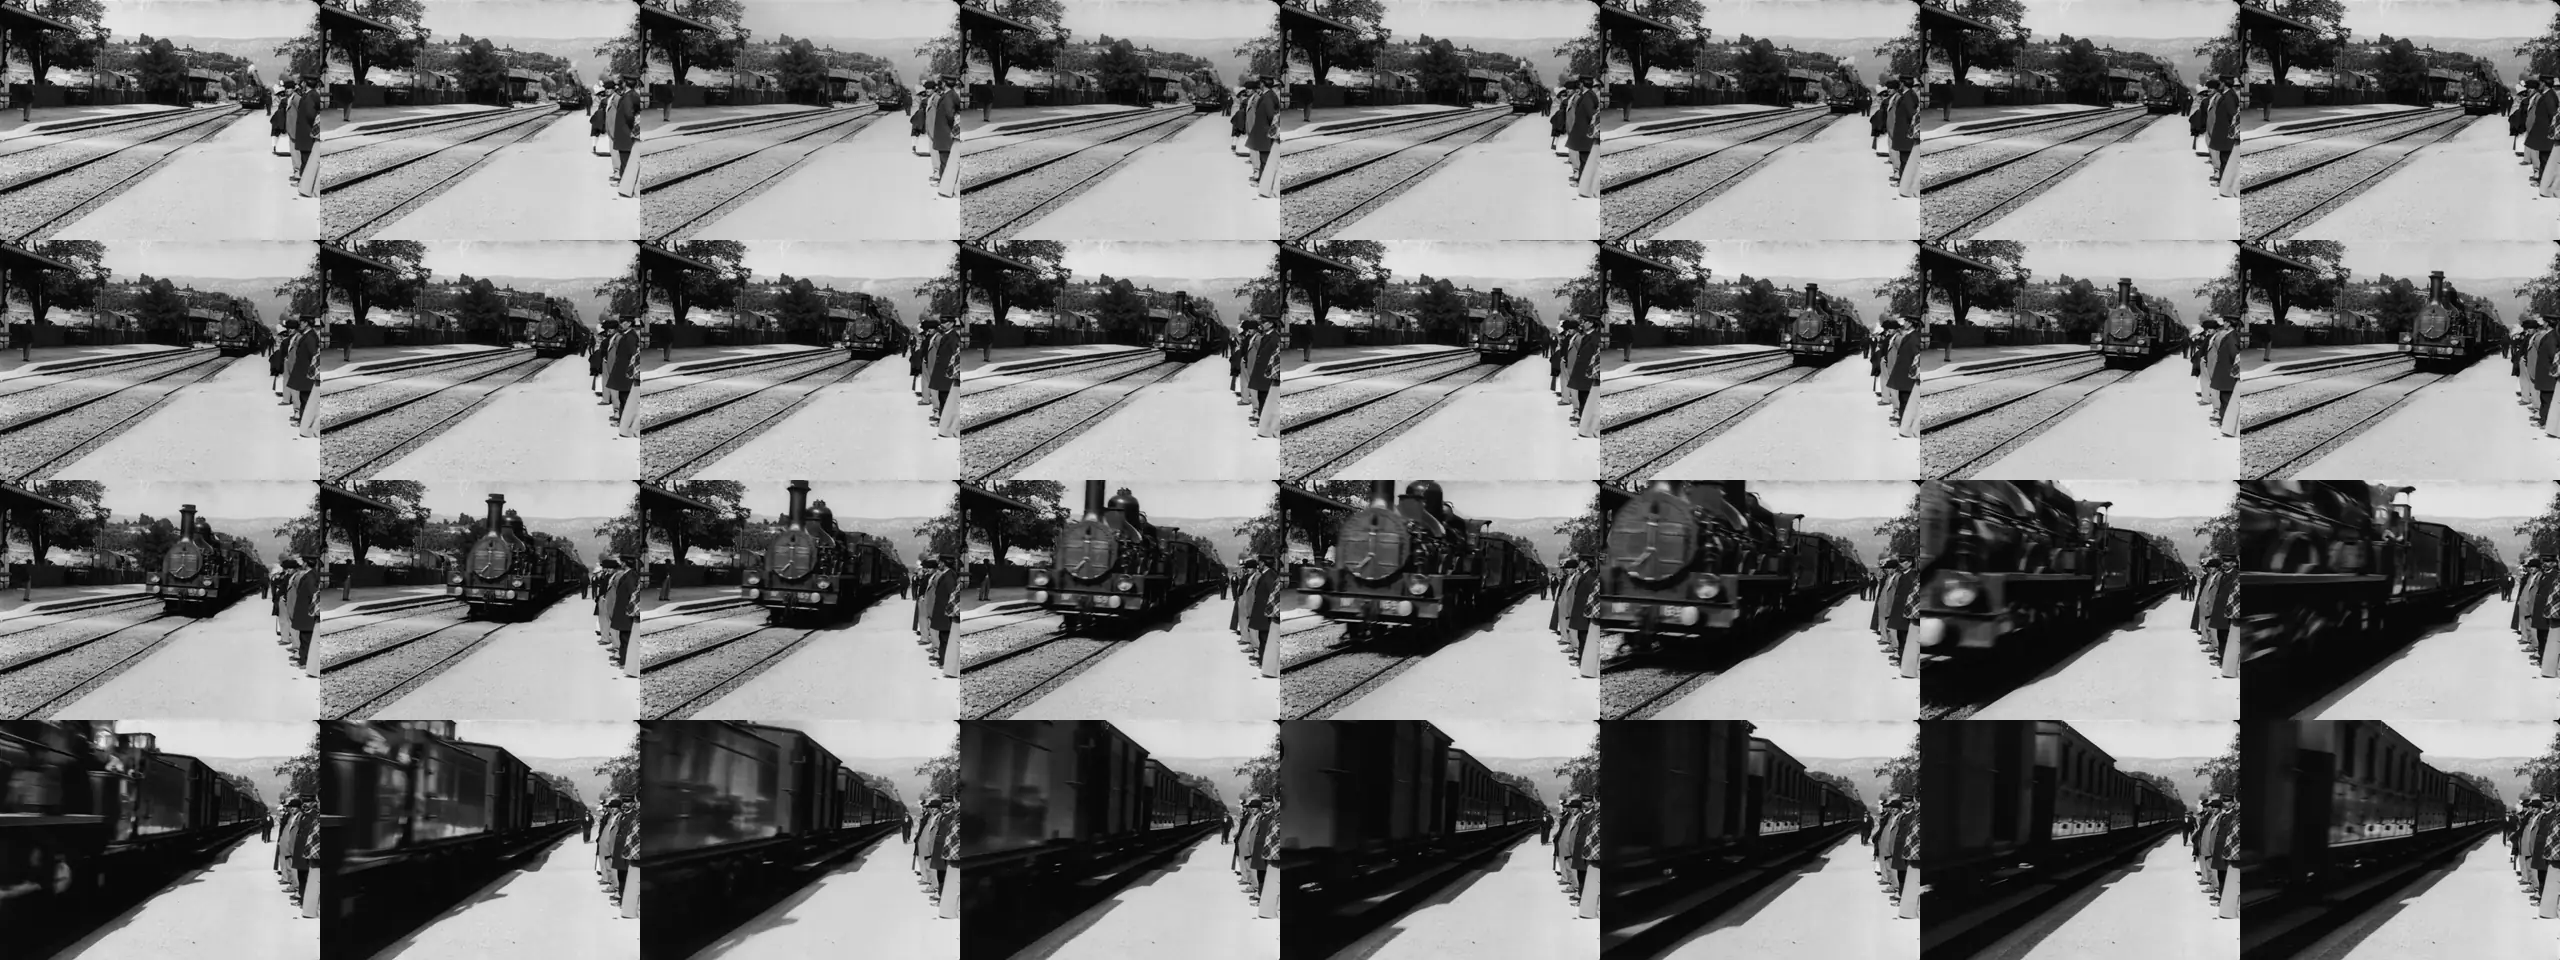
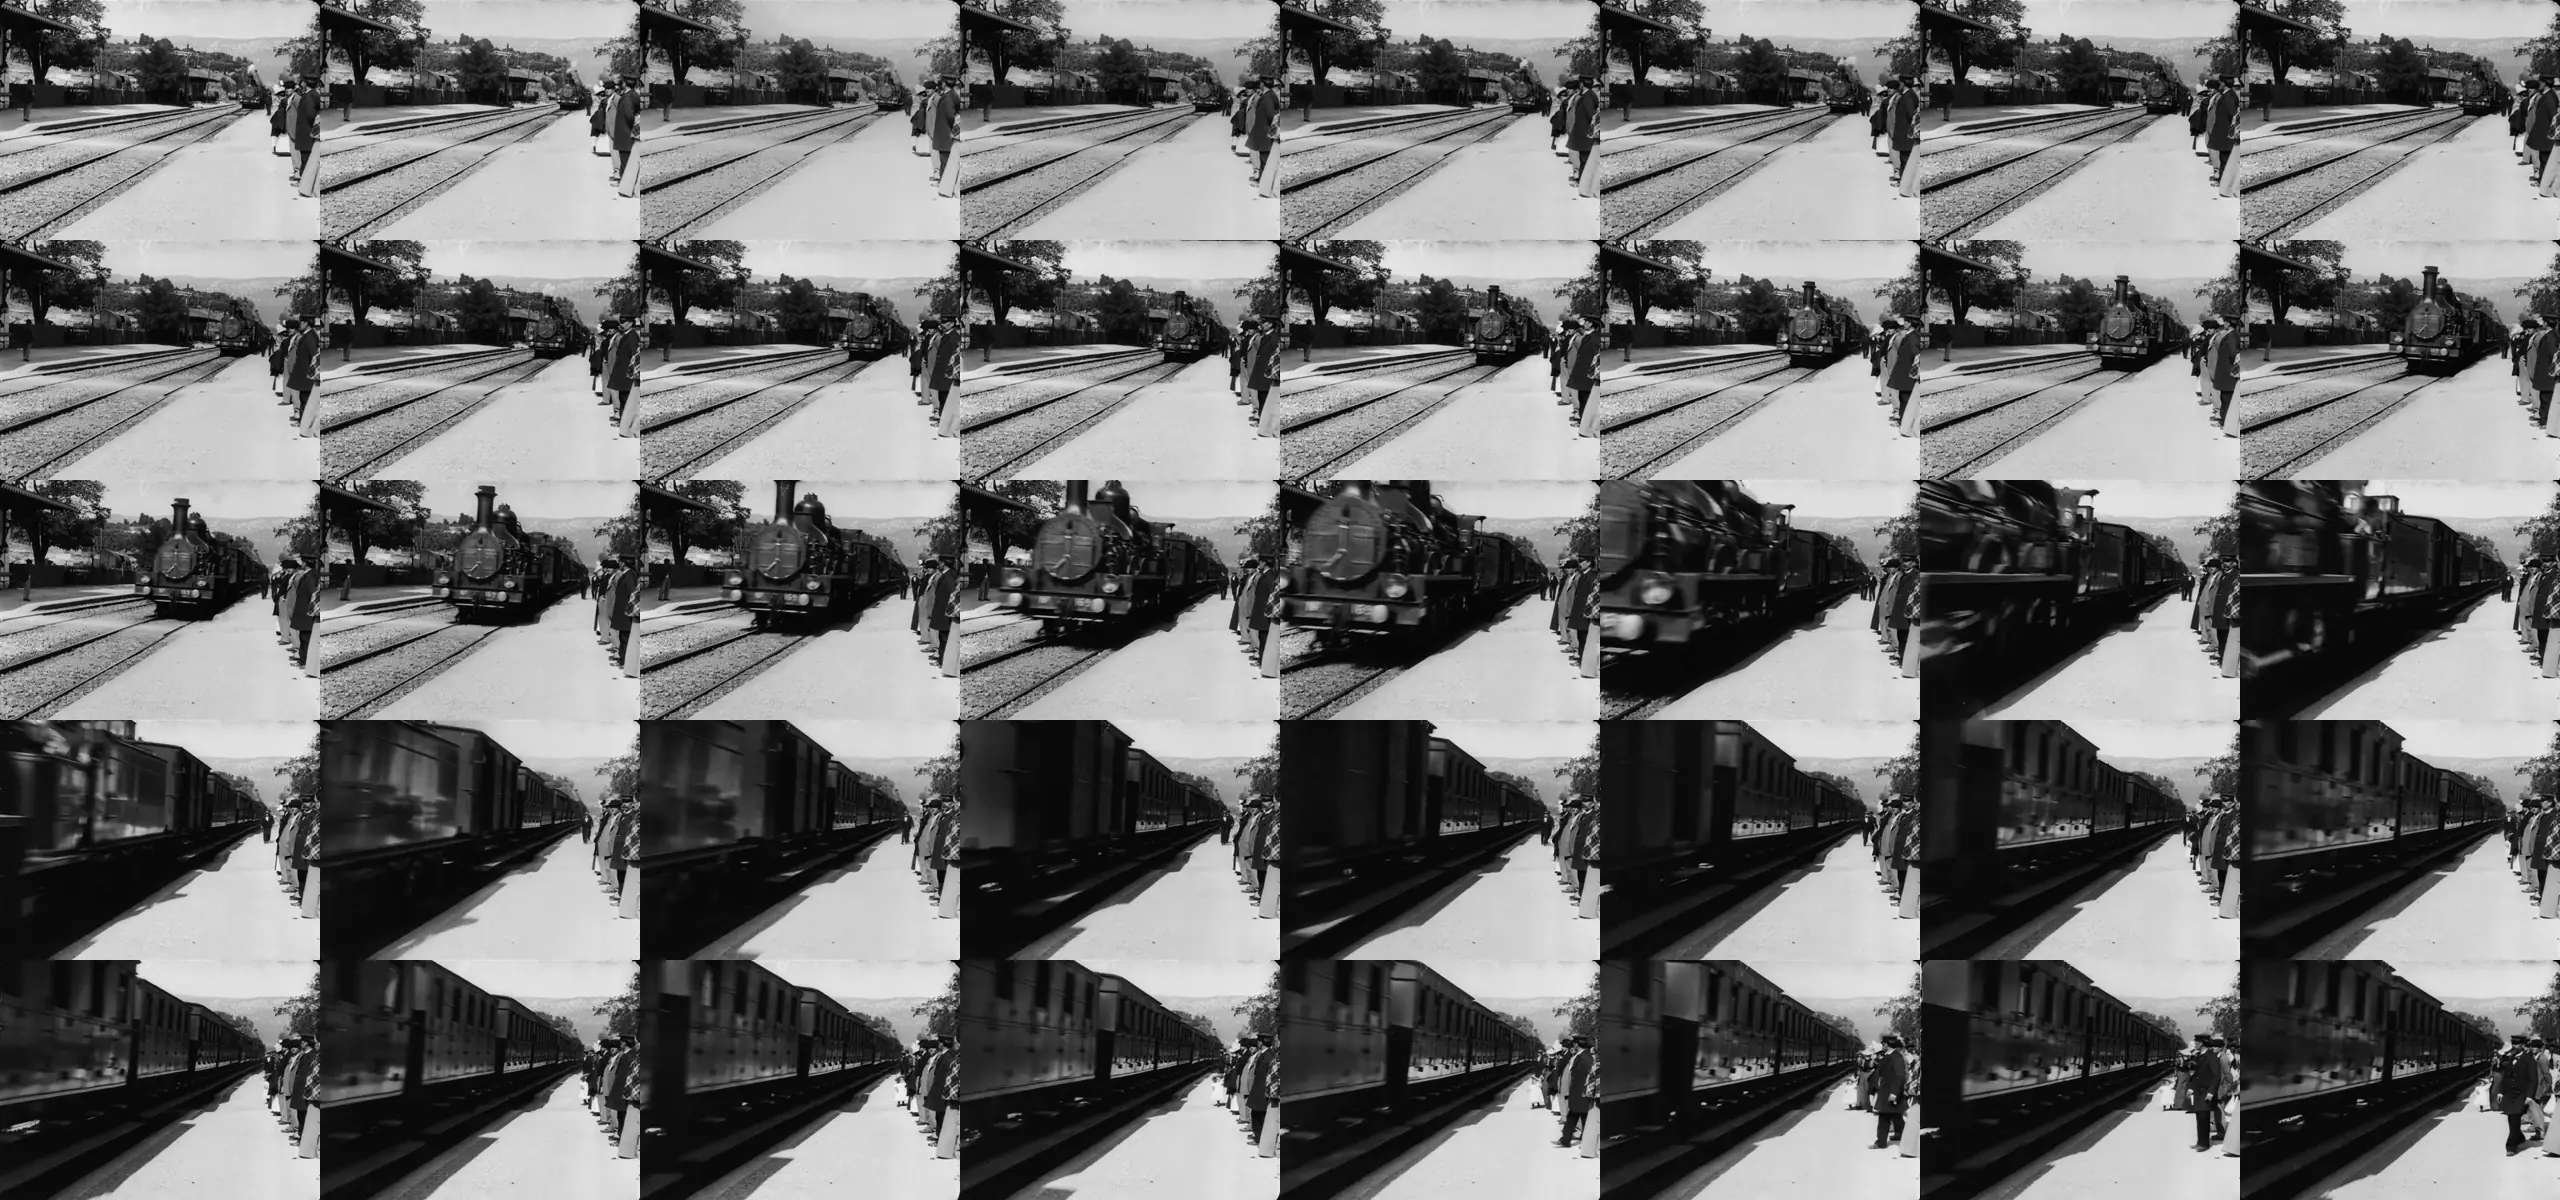
Grifflix: the train runs on into the station as the poster fades in over it (40 frames, a longer, softer fade); a day hidden for now (Grifflix's posters below) still stepped to by keys, the remote and swipes (#240)
Claude-Session: https://claude.ai/code/session_01AkqUdrFnTvbjkbccGZbgsE

diff --git a/_grifflix/web/template.html b/_grifflix/web/template.html
@@ -567,7 +567,7 @@ html.tv .th-lane .vday:focus { outline: 0 !important; box-shadow: 0 0 0 4px #1a1
 .zpost::before { content: ""; position: absolute; inset: -30px; background: var(--pp) center / cover; filter: blur(20px) brightness(.45); }
 .zpost::after { content: ""; position: absolute; inset: 4% 0; background: var(--pp) center / contain no-repeat; filter: drop-shadow(0 8px 20px rgba(0, 0, 0, .6)); }   /* (the day's poster on the screen, its own colours blurred round it) */
 .zstagef { cursor: pointer; }
-.ztrain { position: absolute; inset: 0; opacity: 0; background: #0c0b0a url("/grifflix/img/lumiere-train-frames.webp") 0 0 / 800% 400% no-repeat; filter: sepia(.18) contrast(1.06) brightness(.92); will-change: opacity; }   /* (the Lumières' train, a frame at a time) */
+.ztrain { position: absolute; inset: 0; opacity: 0; background: #0c0b0a url("/grifflix/img/lumiere-train-frames.webp?v=2") 0 0 / 800% 500% no-repeat; filter: sepia(.18) contrast(1.06) brightness(.92); will-change: opacity; }   /* (the Lumières' train, a frame at a time) */
 .zpost.on { opacity: 1; } .zpost.now, .zstagef.now .zcurt { transition: none; }
 .zcurt { position: absolute; top: -7%; bottom: -3%; width: 53%; z-index: 3; pointer-events: none; background: #3a0508 url("/grifflix/img/cinema-curtain.webp") 0 0 / 100% 100%; box-shadow: 0 10px 30px rgba(0, 0, 0, .6); transition: transform 2.2s cubic-bezier(.6, .02, .25, 1); }   /* (red velvet: John, 9 Nov 2026: "curtain looks like a cartoon") */
 .zcurt.l { left: -2%; transform-origin: 0 0; } .zcurt.r { right: -2%; transform-origin: 100% 0; background-position: 100% 0; background-size: 180% 100%; }
@@ -2841,7 +2841,7 @@ function themeStep(dir) {   // the day after or before with a film; at a month's
   // (from the month's own 1st or last day onto the other month's: that month's theme at once, as the scroll leaves it, never after it's
   // stopped: John, 9 Nov 2026: "Change the moment the scroll leaves the first of the month into the last month, or the moment it leaves
   // the last day of the month into the new month")
-  if (i >= 0 && nb && !(nb.dataset.om && !bs[i].dataset.om)) { nb.focus({ preventScroll: true }); if (MOB()) themeTurn(nb); return true; }
+  if (i >= 0 && nb && !(nb.dataset.om && !bs[i].dataset.om)) { nb.focus({ preventScroll: true }); if (MOB() || document.activeElement !== nb) themeTurn(nb); return true; }   // (a day hidden for now takes no focus: turned to all the same)
   var ms = monthsOf(S.calData.days), j = ms.indexOf(S.month) + dir; if (j < 0 || j >= ms.length || !S.step) return false;
   // (past the last of the neighbouring days: on into that month, on the very next day, never back onto the month just left:
   // John, 9 Nov 2026: "can sometimes cause it to change back to the other theme unexpectedly")
@@ -2850,7 +2850,7 @@ function themeStep(dir) {   // the day after or before with a film; at a month's
   S.crossAt = Date.now(); if (key) S.resumeDay = key;
   S.quiet = true; S.step(dir); S.quiet = false; themeFadeIn(dir);
   var own = $$(sel).filter(function (x) { return !x.dataset.om; }), f = (key && $('#cal button[data-day="' + key + '"]')) || (dir > 0 ? own[0] : own[own.length - 1]);
-  if (f) { f.focus({ preventScroll: true }); if (MOB()) themeTurn(f); }
+  if (f) { f.focus({ preventScroll: true }); if (MOB() || document.activeElement !== f) themeTurn(f); }
   return true;
 }
 // January: the corridor (Kubrick's The Shining): the days down a corridor, coming towards you as you go on
@@ -3528,10 +3528,10 @@ THEMEFX.picture = {
     me._intro = true; window.ZFILMED = 1;
     var go = function () {
       if (!st.isConnected) return; st.classList.add('open'); me.train(0, 1);
-      setTimeout(function () { me._intro = false; me.trainOnce(2600); }, 1500);
+      setTimeout(function () { me._intro = false; me.trainOnce(3400); }, 1500);
     };
     var im = new Image(), done = false, once = function () { if (!done) { done = true; go(); } };
-    setTimeout(function () { im.onload = once; im.onerror = once; im.src = '/grifflix/img/lumiere-train-frames.webp'; if (im.complete) once(); setTimeout(once, 5000); }, 700);
+    setTimeout(function () { im.onload = once; im.onerror = once; im.src = '/grifflix/img/lumiere-train-frames.webp?v=2'; if (im.complete) once(); setTimeout(once, 5000); }, 700);
   },
   // (once per scroll, in its own time, however far the days go; going on, the screen goes through their posters: John, 9 Nov 2026:
   // "Have the film only play once per scroll and then scroll through the posters after that")
@@ -3539,8 +3539,10 @@ THEMEFX.picture = {
     var me = this, t0 = performance.now(), tok = me._ttok = {}; me._tplay = true;
     (function f(t) {
       if (tok !== me._ttok || !$('#ztrain')) { me._tplay = false; return; }
-      var u = Math.min(1, (t - t0) / D), v = u < .78 ? 1 : 1 - (u - .78) / .22;
-      me.train(Math.min(1, u / .78), v); if (u < 1) requestAnimationFrame(f); else { me._tplay = false; me.train(1, 0); }
+      // (it rolls on into the station as the poster fades in over it: John, 9 Nov 2026: "can the train carry on a little further and then fade
+      // in, it looks a little abrupt")
+      var u = Math.min(1, (t - t0) / D), w = u < .6 ? 0 : (u - .6) / .4, v = 1 - w * w * (3 - 2 * w);
+      me.train(Math.min(1, u / .92), v); if (u < 1) requestAnimationFrame(f); else { me._tplay = false; me.train(1, 0); }
     })(t0);
   },
   lo: function (el) {   // (a day's poster below: its own fade, and gone while the screen shows it)
@@ -3553,8 +3555,8 @@ THEMEFX.picture = {
     // (the poster below only until the screen shows it, so it's never there twice: John, 9 Nov 2026: "Lower picture should only show
     // until main one shows on screen and then disappear")
     var st = $('#zstagef'), me = this; me._lo = st && st.classList.contains('open') ? Math.min(1, vis * 1.6) : 1; (me.all || []).forEach(function (el) { me.lo(el); });
-    var n = Math.max(0, Math.min(31, Math.round(u * 31)));
-    el.style.backgroundPosition = (n % 8 / 7 * 100).toFixed(3) + '% ' + (Math.floor(n / 8) / 3 * 100).toFixed(3) + '%';
+    var n = Math.max(0, Math.min(39, Math.round(u * 39)));
+    el.style.backgroundPosition = (n % 8 / 7 * 100).toFixed(3) + '% ' + (Math.floor(n / 8) / 4 * 100).toFixed(3) + '%';
     el.style.opacity = Math.max(0, Math.min(1, vis)).toFixed(3);
   },
   leader: function (asked) {   // (a film leader: 3, 2, 1, a flash, GRIFFLIX; the first visit each day; a tap skips it)
@@ -3611,7 +3613,7 @@ THEMEFX.picture = {
   place: function (all, at, c) {
     this.all = all; this.c = c; if (this._at != null && Math.abs(this._at - at) > .3) musicKick(Math.abs(this._at - at));
     var now = performance.now(), mv = this._at != null && Math.abs(at - this._at) > 1e-3;
-    if (mv && !this._intro && !this._tplay && now - (this._lp || 0) > 650 && $('#zstagef.open')) this.trainOnce(1100);
+    if (mv && !this._intro && !this._tplay && now - (this._lp || 0) > 650 && $('#zstagef.open')) this.trainOnce(1700);
     if (mv) this._lp = now;
     fxTween(this, at, 1100);
   },

diff --git a/grifflix/draft/index.html b/grifflix/draft/index.html
@@ -567,7 +567,7 @@ html.tv .th-lane .vday:focus { outline: 0 !important; box-shadow: 0 0 0 4px #1a1
 .zpost::before { content: ""; position: absolute; inset: -30px; background: var(--pp) center / cover; filter: blur(20px) brightness(.45); }
 .zpost::after { content: ""; position: absolute; inset: 4% 0; background: var(--pp) center / contain no-repeat; filter: drop-shadow(0 8px 20px rgba(0, 0, 0, .6)); }   /* (the day's poster on the screen, its own colours blurred round it) */
 .zstagef { cursor: pointer; }
-.ztrain { position: absolute; inset: 0; opacity: 0; background: #0c0b0a url("/grifflix/img/lumiere-train-frames.webp") 0 0 / 800% 400% no-repeat; filter: sepia(.18) contrast(1.06) brightness(.92); will-change: opacity; }   /* (the Lumières' train, a frame at a time) */
+.ztrain { position: absolute; inset: 0; opacity: 0; background: #0c0b0a url("/grifflix/img/lumiere-train-frames.webp?v=2") 0 0 / 800% 500% no-repeat; filter: sepia(.18) contrast(1.06) brightness(.92); will-change: opacity; }   /* (the Lumières' train, a frame at a time) */
 .zpost.on { opacity: 1; } .zpost.now, .zstagef.now .zcurt { transition: none; }
 .zcurt { position: absolute; top: -7%; bottom: -3%; width: 53%; z-index: 3; pointer-events: none; background: #3a0508 url("/grifflix/img/cinema-curtain.webp") 0 0 / 100% 100%; box-shadow: 0 10px 30px rgba(0, 0, 0, .6); transition: transform 2.2s cubic-bezier(.6, .02, .25, 1); }   /* (red velvet: John, 9 Nov 2026: "curtain looks like a cartoon") */
 .zcurt.l { left: -2%; transform-origin: 0 0; } .zcurt.r { right: -2%; transform-origin: 100% 0; background-position: 100% 0; background-size: 180% 100%; }
@@ -2841,7 +2841,7 @@ function themeStep(dir) {   // the day after or before with a film; at a month's
   // (from the month's own 1st or last day onto the other month's: that month's theme at once, as the scroll leaves it, never after it's
   // stopped: John, 9 Nov 2026: "Change the moment the scroll leaves the first of the month into the last month, or the moment it leaves
   // the last day of the month into the new month")
-  if (i >= 0 && nb && !(nb.dataset.om && !bs[i].dataset.om)) { nb.focus({ preventScroll: true }); if (MOB()) themeTurn(nb); return true; }
+  if (i >= 0 && nb && !(nb.dataset.om && !bs[i].dataset.om)) { nb.focus({ preventScroll: true }); if (MOB() || document.activeElement !== nb) themeTurn(nb); return true; }   // (a day hidden for now takes no focus: turned to all the same)
   var ms = monthsOf(S.calData.days), j = ms.indexOf(S.month) + dir; if (j < 0 || j >= ms.length || !S.step) return false;
   // (past the last of the neighbouring days: on into that month, on the very next day, never back onto the month just left:
   // John, 9 Nov 2026: "can sometimes cause it to change back to the other theme unexpectedly")
@@ -2850,7 +2850,7 @@ function themeStep(dir) {   // the day after or before with a film; at a month's
   S.crossAt = Date.now(); if (key) S.resumeDay = key;
   S.quiet = true; S.step(dir); S.quiet = false; themeFadeIn(dir);
   var own = $$(sel).filter(function (x) { return !x.dataset.om; }), f = (key && $('#cal button[data-day="' + key + '"]')) || (dir > 0 ? own[0] : own[own.length - 1]);
-  if (f) { f.focus({ preventScroll: true }); if (MOB()) themeTurn(f); }
+  if (f) { f.focus({ preventScroll: true }); if (MOB() || document.activeElement !== f) themeTurn(f); }
   return true;
 }
 // January: the corridor (Kubrick's The Shining): the days down a corridor, coming towards you as you go on
@@ -3528,10 +3528,10 @@ THEMEFX.picture = {
     me._intro = true; window.ZFILMED = 1;
     var go = function () {
       if (!st.isConnected) return; st.classList.add('open'); me.train(0, 1);
-      setTimeout(function () { me._intro = false; me.trainOnce(2600); }, 1500);
+      setTimeout(function () { me._intro = false; me.trainOnce(3400); }, 1500);
     };
     var im = new Image(), done = false, once = function () { if (!done) { done = true; go(); } };
-    setTimeout(function () { im.onload = once; im.onerror = once; im.src = '/grifflix/img/lumiere-train-frames.webp'; if (im.complete) once(); setTimeout(once, 5000); }, 700);
+    setTimeout(function () { im.onload = once; im.onerror = once; im.src = '/grifflix/img/lumiere-train-frames.webp?v=2'; if (im.complete) once(); setTimeout(once, 5000); }, 700);
   },
   // (once per scroll, in its own time, however far the days go; going on, the screen goes through their posters: John, 9 Nov 2026:
   // "Have the film only play once per scroll and then scroll through the posters after that")
@@ -3539,8 +3539,10 @@ THEMEFX.picture = {
     var me = this, t0 = performance.now(), tok = me._ttok = {}; me._tplay = true;
     (function f(t) {
       if (tok !== me._ttok || !$('#ztrain')) { me._tplay = false; return; }
-      var u = Math.min(1, (t - t0) / D), v = u < .78 ? 1 : 1 - (u - .78) / .22;
-      me.train(Math.min(1, u / .78), v); if (u < 1) requestAnimationFrame(f); else { me._tplay = false; me.train(1, 0); }
+      // (it rolls on into the station as the poster fades in over it: John, 9 Nov 2026: "can the train carry on a little further and then fade
+      // in, it looks a little abrupt")
+      var u = Math.min(1, (t - t0) / D), w = u < .6 ? 0 : (u - .6) / .4, v = 1 - w * w * (3 - 2 * w);
+      me.train(Math.min(1, u / .92), v); if (u < 1) requestAnimationFrame(f); else { me._tplay = false; me.train(1, 0); }
     })(t0);
   },
   lo: function (el) {   // (a day's poster below: its own fade, and gone while the screen shows it)
@@ -3553,8 +3555,8 @@ THEMEFX.picture = {
     // (the poster below only until the screen shows it, so it's never there twice: John, 9 Nov 2026: "Lower picture should only show
     // until main one shows on screen and then disappear")
     var st = $('#zstagef'), me = this; me._lo = st && st.classList.contains('open') ? Math.min(1, vis * 1.6) : 1; (me.all || []).forEach(function (el) { me.lo(el); });
-    var n = Math.max(0, Math.min(31, Math.round(u * 31)));
-    el.style.backgroundPosition = (n % 8 / 7 * 100).toFixed(3) + '% ' + (Math.floor(n / 8) / 3 * 100).toFixed(3) + '%';
+    var n = Math.max(0, Math.min(39, Math.round(u * 39)));
+    el.style.backgroundPosition = (n % 8 / 7 * 100).toFixed(3) + '% ' + (Math.floor(n / 8) / 4 * 100).toFixed(3) + '%';
     el.style.opacity = Math.max(0, Math.min(1, vis)).toFixed(3);
   },
   leader: function (asked) {   // (a film leader: 3, 2, 1, a flash, GRIFFLIX; the first visit each day; a tap skips it)
@@ -3611,7 +3613,7 @@ THEMEFX.picture = {
   place: function (all, at, c) {
     this.all = all; this.c = c; if (this._at != null && Math.abs(this._at - at) > .3) musicKick(Math.abs(this._at - at));
     var now = performance.now(), mv = this._at != null && Math.abs(at - this._at) > 1e-3;
-    if (mv && !this._intro && !this._tplay && now - (this._lp || 0) > 650 && $('#zstagef.open')) this.trainOnce(1100);
+    if (mv && !this._intro && !this._tplay && now - (this._lp || 0) > 650 && $('#zstagef.open')) this.trainOnce(1700);
     if (mv) this._lp = now;
     fxTween(this, at, 1100);
   },
